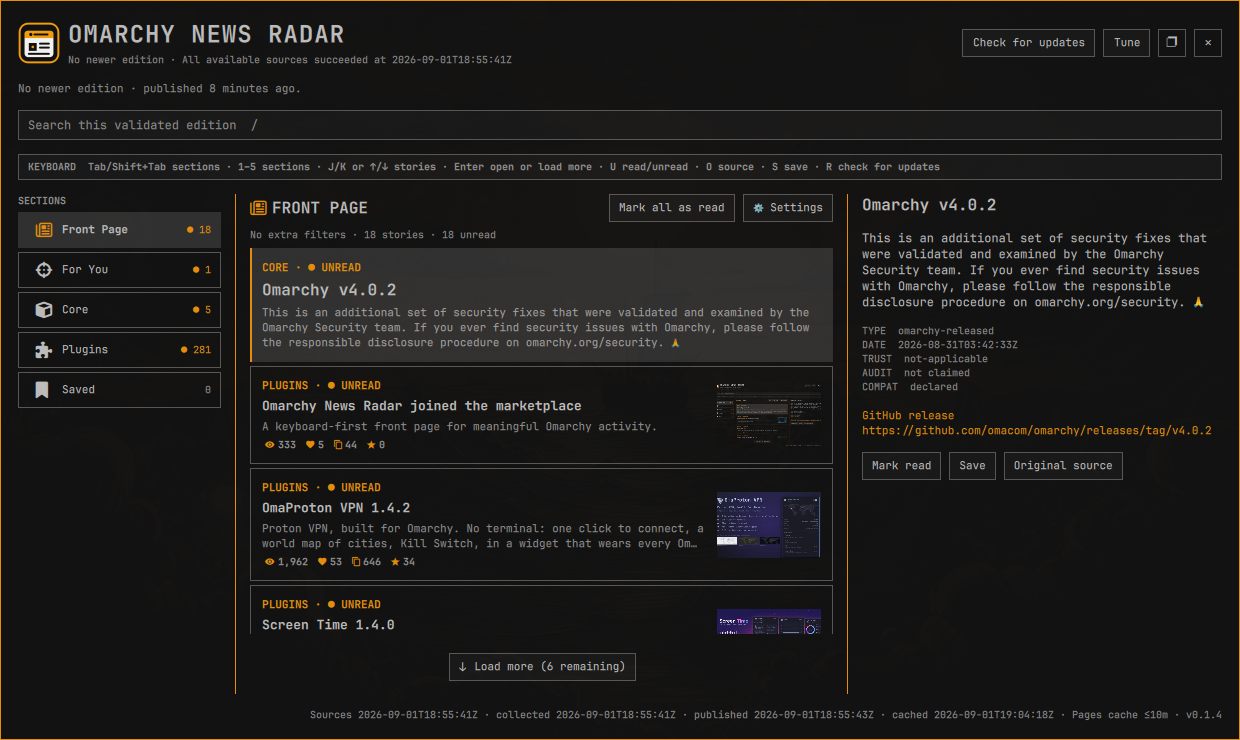
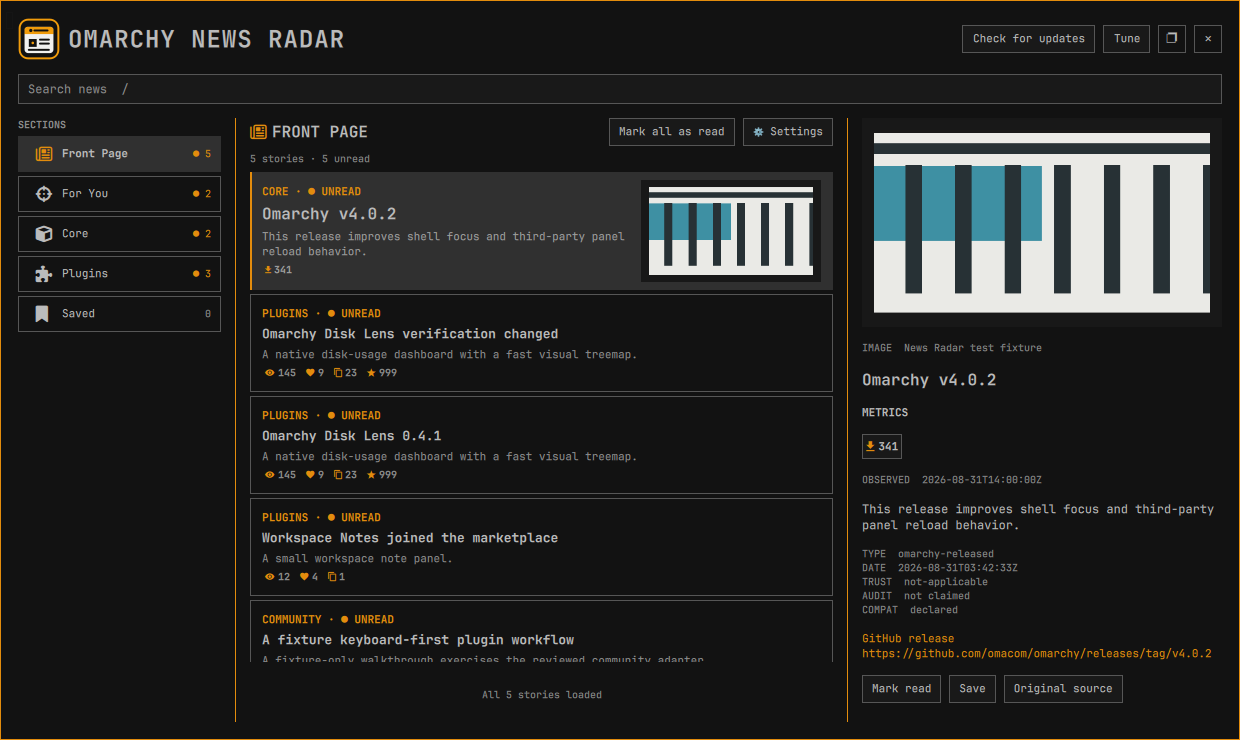
Record 0.2.1 release evidence

diff --git a/docs/evidence/0.2.1-local.md b/docs/evidence/0.2.1-local.md
@@ -1,0 +1,31 @@
+# Version 0.2.1 local-candidate evidence
+
+## Candidate identity
+
+- Local runtime candidate: `1fdc6ddc7ec185fd0de8ebe34421acf03ca3138e`; subsequent release-only preview and evidence edits do not change executable behavior.
+- Manifest and Python package version: `0.2.1`; panel build identity: `news-radar-0.2.1+identity-1`; helper protocol: `1`.
+- Omarchy source: commit `83881e979b35468c3e7d60b171e319ede61a88fd`.
+- Plugin Lab base: `omarchy-2026.08.27-x86_64-local`.
+- Full acceptance evidence: run `20260902-123750`; its disposable overlay was discarded.
+
+## Root cause and repair
+
+The normal reader exposed internal edition, source, cache, publication, and version diagnostics even when valid news was available. That was operational telemetry presented as product content. Successful reading now shows news and actionable state only; a concise recovery message remains visible when no validated news is available.
+
+The remaining pagination glitch had two concrete causes. Replacing the JavaScript-array ListView model recycled every visible delegate, causing a transient displacement during **Load more**. The following per-story read projection then reassigned every payload and could relayout unchanged rows above the selection. Radar now appends to a stable rendered `ListModel`, retains unchanged payloads and delegates, keeps the adjacent viewport instantiated for keyboard geometry, and preserves explicit anchors across bounded rendered frames.
+
+## Verification
+
+- `make test`: passed all 105 offline unit and integration tests.
+- `OMARCHY_SOURCE=<selected-omarchy-checkout> make validate`: passed Python, repository, JSON/schema/feed/manifest/workflow, ShellCheck, desktop-entry, and QML validation.
+- Full exact-version disposable Plugin Lab acceptance passed run `20260902-123750` with 48 screenshots; plugin loading, QMP input, window management, shortcut behavior, update replacement, and removal occurred only in the guest.
+- The 36 rapid pagination probes kept selected index 11 fully visible at the same on-screen top with no animation while the rendered model expanded from 12 to 24 stories.
+- The next Down selected index 12 fully visible and top-aligned; the following Down selected index 13 while preserving the index-12 top anchor.
+- A 1.4-second physical held-Up journey kept every sampled selected story visible throughout monotonic reverse navigation.
+- Unread-only navigation retained the newly read selected row until the view context changed, while persistent unread state and counts updated.
+- Closed-panel background refresh adopted a successor edition and updated unread state before the panel was opened; an already-open panel adopted a replacement without losing reading context.
+- One newspaper click and one `Super+Alt+N` invocation each raised an obscured Radar without closing it; foreground and rapid-repeat activation kept one focused instance.
+- Visual review covered the quiet Matte Black reader, section settings, unread retention, Load more focus, held-Up state, first use, cached offline, invalid/partial/empty states, light and dark themes, 200-percent text, narrow reduced-motion layout, and same-path hot update. Normal successful screens contain no publication-pipeline banner, edition-mode banner, cache/version footer, or permanent keyboard legend.
+- The refreshed `preview.png` is the exact 1240×740 Radar window crop from the successful Matte Black acceptance frame.
+
+No host desktop configuration or live session was changed.

diff --git a/docs/DECISIONS.md b/docs/DECISIONS.md
@@ -312,7 +312,7 @@
 
 **Consequence:** Pagination does not move or animate the retained story viewport. The next Down top-aligns the first newly revealed row when it crosses the viewport, and the following Down keeps that anchor while moving normally. Stable event identity survives a refreshed projection, active animation remains authoritative, and only explicit context changes reset the viewport. Disposable-lab acceptance continuously samples pagination geometry and asserts both post-load navigation steps.
 
-The invariant is the rendered anchor rather than the raw `ListView.contentY` number. When a replaced variable-height delegate settles at a different internal `y`, preservation adjusts `contentY` by the same amount to keep the selected story at the identical screen position. Acceptance therefore samples the selected row's on-screen top, full visibility, and animation state; treating the compensating internal offset as motion would reject a visually stable result.
+The invariant is the rendered anchor rather than the raw `ListView.contentY` number. Pagination appends to a stable `ListModel` instead of replacing the entire JavaScript-array model, so existing delegates are not recycled. Read projections update only payloads whose validated content changed. One adjacent viewport remains instantiated so the first newly revealed row has real geometry before keyboard movement; a bounded rendered-frame preservation pass remains as a safety net for genuine asynchronous relayout. Acceptance samples the selected row's on-screen top, full visibility, and animation state rather than mistaking a compensating internal offset for visual motion.
 
 ## D040 — Keep reverse key-repeat synchronized with selection
 

diff --git a/docs/release-notes/0.2.1.md b/docs/release-notes/0.2.1.md
@@ -7,5 +7,7 @@ This corrective release keeps the v0.2.0 navigation and news-reliability fixes w
 - Search now says **Search news**, and section summaries show only active filters, relevant just-read context, story count, and unread count.
 - Network or publisher trouble does not replace usable cached news with diagnostics. A concise recovery message appears only when no valid news is available.
 - README release status and installation guidance now identify the current published version correctly.
+- **Load more** now appends to a stable rendered model instead of recycling every visible row. The adjacent viewport is kept instantiated, so the retained story never twitches and the next two Down presses use real row geometry.
+- Read-state projections update only changed story payloads and preserve the explicit top anchor across rendered frames, eliminating the remaining post-pagination settling offset.
 
-All v0.2.0 fixes for Load more, held-arrow navigation, Unread only stability, background feed adoption, activation, unread discovery, and publication continuity remain included.
+The full disposable-VM journey verifies Load more continuously, both following Down presses, held-Up visibility, Unread only stability, background feed adoption, activation, unread discovery, themes/scaling, runtime replacement, and clean removal.

diff --git a/CHANGELOG.md b/CHANGELOG.md
@@ -7,6 +7,8 @@
 - Simplify search and section summary copy while preserving filter state, story counts, unread counts, and the temporary just-read explanation when it is actually relevant.
 - Show a concise update failure only when Radar has no usable cached news; cached last-known-good stories remain quietly readable through transient publisher or network problems.
 - Correct the public README release state and installation heading so the documented command matches the current release.
+- Append newly paginated stories to a stable rendered model, retain unchanged row delegates during read projections, and preload the adjacent viewport so **Load more** and both following Down presses remain visually deterministic.
+- Settle explicit viewport anchors across rendered frames and cancel pending preservation on close, preventing virtualized delegates or asynchronous read updates from leaving the selected row offset or out of sight.
 
 ## 0.2.0 — 2026-09-02
 
